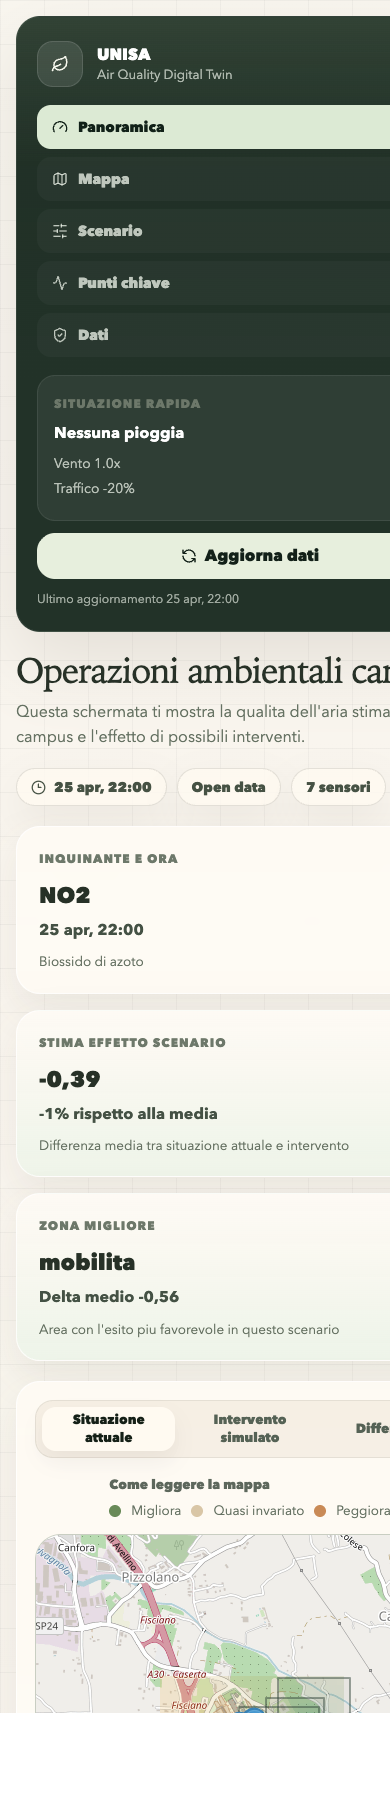
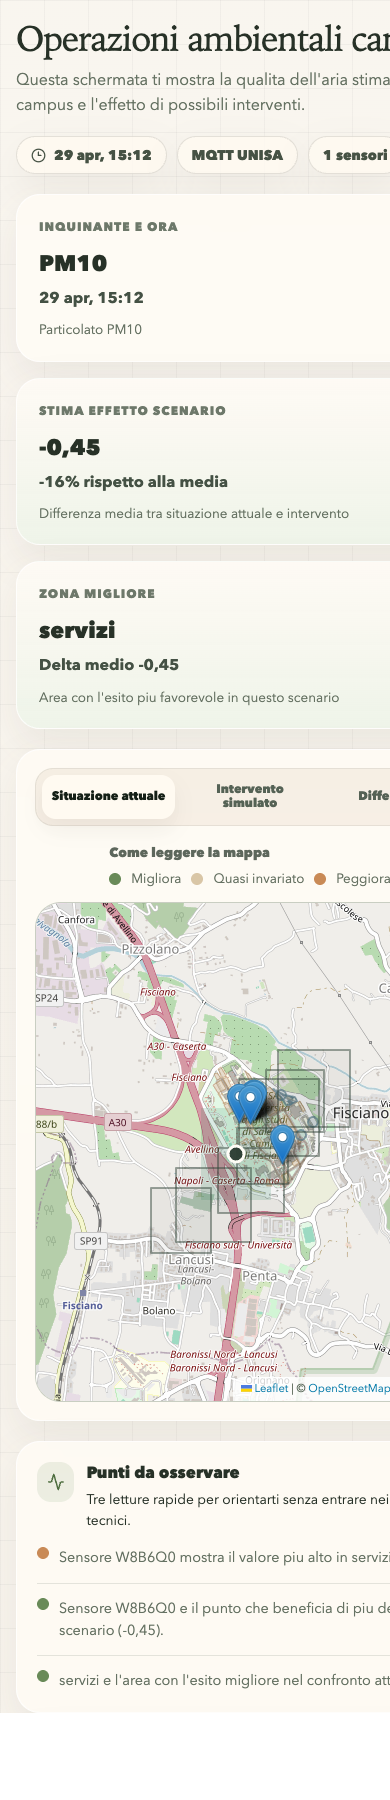
Aggregate real sensor MQTT data into operational snapshots

diff --git a/web/src/App.tsx b/web/src/App.tsx
@@ -64,11 +64,24 @@ type Summary = {
   latest_timestamp: string | null;
   latest_received_at?: string | null;
   rows: number;
+  raw_rows?: number;
+  snapshot_rows?: number;
   sensors: number;
+  active_sensors?: number;
+  capable_sensors?: number;
+  coverage_ratio?: number;
   stations: number;
   zones: { id: string; label: string }[];
   presets: Preset[];
-  ingestion?: { rows?: number; sensors?: number; source?: string; generated_at?: string };
+  ingestion?: {
+    raw_rows?: number;
+    snapshot_rows?: number;
+    sensors?: number;
+    source?: string;
+    generated_at?: string;
+    snapshot_bucket_minutes?: number;
+    snapshot_freshness_minutes?: number;
+  };
   warnings: unknown[];
 };
 type MapPayload = {
@@ -146,6 +159,17 @@ function formatTime(value: string | null) {
     month: "short",
     hour: "2-digit",
     minute: "2-digit",
+  }).format(new Date(value));
+}
+
+function formatTimeWithSeconds(value: string | null) {
+  if (!value) return "n/d";
+  return new Intl.DateTimeFormat("it-IT", {
+    day: "2-digit",
+    month: "short",
+    hour: "2-digit",
+    minute: "2-digit",
+    second: "2-digit",
   }).format(new Date(value));
 }
 
@@ -482,6 +506,22 @@ function App() {
     return mapData?.snapshot ?? [];
   }, [mapData, mode, scenario]);
 
+  const sensorCoverageText = useMemo(() => {
+    const active = activeSnapshot.length || summary?.active_sensors || 0;
+    const capable = summary?.capable_sensors || summary?.sensors || 0;
+    if (!capable) return `${active} sensori`;
+    return `${active}/${capable} sensori`;
+  }, [activeSnapshot.length, summary?.active_sensors, summary?.capable_sensors, summary?.sensors]);
+
+  const coveragePercent = useMemo(() => {
+    if (summary?.coverage_ratio !== undefined) {
+      return Math.round(summary.coverage_ratio * 100);
+    }
+    const capable = summary?.capable_sensors || summary?.sensors || 0;
+    if (!capable) return undefined;
+    return Math.round(((activeSnapshot.length || 0) / capable) * 100);
+  }, [activeSnapshot.length, summary?.capable_sensors, summary?.coverage_ratio, summary?.sensors]);
+
   const impactPercent = useMemo(() => {
     if (!scenario?.timeline.length) return undefined;
     const baselineAverage = mean(scenario.timeline.map((point) => point.baseline));
@@ -656,8 +696,8 @@ function App() {
               <Clock3 size={15} />
               {formatTime(timestamp)}
             </span>
-            <span className="meta-chip">MQTT UNISA</span>
-            <span className="meta-chip">{mapData?.snapshot.length ?? 0} sensori</span>
+            <span className="meta-chip">Snapshot operativo</span>
+            <span className="meta-chip">{sensorCoverageText}</span>
             {isPending ? <span className="meta-chip loading">Aggiornamento</span> : null}
           </div>
         </header>
@@ -809,11 +849,12 @@ function App() {
               <div className="reliability-copy">
                 <p>
                   Confidenza media {topSensors[0]?.confidence_label ? humanizeConfidence(topSensors[0].confidence_label) : "stabile"} con{" "}
-                  {mapData?.snapshot.length ?? 0} sensori disponibili.
+                  {sensorCoverageText} disponibili{coveragePercent !== undefined ? ` (${coveragePercent}% copertura)` : ""}.
                 </p>
                 <ul>
                   <li>Sensori fisici registrati: {summary?.sensors ?? "n/d"}</li>
-                  <li>Misure reali disponibili: {summary?.rows.toLocaleString("it-IT") ?? "n/d"}</li>
+                  <li>Snapshot operativi disponibili: {summary?.snapshot_rows?.toLocaleString("it-IT") ?? summary?.rows.toLocaleString("it-IT") ?? "n/d"}</li>
+                  <li>Misure grezze reali archiviate: {summary?.raw_rows?.toLocaleString("it-IT") ?? "n/d"}</li>
                   <li>Ultima ricezione MQTT: {formatTime(summary?.latest_received_at ?? null)}</li>
                 </ul>
               </div>
@@ -848,7 +889,7 @@ function App() {
             <select value={timestamp ?? ""} onChange={(event) => setTimestamp(event.target.value)}>
               {timestamps.map((item) => (
                 <option key={item} value={item}>
-                  {formatTime(item)}
+                  {formatTimeWithSeconds(item)}
                 </option>
               ))}
             </select>

diff --git a/web/src/styles.css b/web/src/styles.css
@@ -1099,6 +1099,16 @@ input[type="range"] {
     gap: 16px;
   }
 
+  .hero-header h1 {
+    max-width: 8ch;
+    font-size: clamp(1.9rem, 9vw, 2.5rem);
+  }
+
+  .hero-header p {
+    max-width: none;
+    font-size: 0.96rem;
+  }
+
   .main-panel {
     order: 1;
   }
@@ -1148,22 +1158,22 @@ input[type="range"] {
   }
 
   .map-stage {
-    min-height: 500px;
+    min-height: 460px;
   }
 
   .map-caption {
-    right: 14px;
-    left: 14px;
-    bottom: 14px;
+    right: 12px;
+    left: 12px;
+    bottom: 12px;
   }
 
   .map-footnote {
-    left: 14px;
-    top: 14px;
+    left: 12px;
+    top: 12px;
   }
 
   .map-compass {
-    right: 14px;
-    top: 14px;
+    right: 12px;
+    top: 12px;
   }
 }

diff --git a/src/unisa_air_twin/live_sensors.py b/src/unisa_air_twin/live_sensors.py
@@ -28,6 +28,13 @@ POLLUTANT_FIELDS = {
 }
 
 
+def _snapshot_settings(settings: Settings) -> tuple[int, int]:
+    config = settings.live_sensors.get("snapshots", {})
+    bucket_minutes = max(1, int(config.get("bucket_minutes", 1)))
+    freshness_minutes = max(bucket_minutes, int(config.get("freshness_minutes", 5)))
+    return bucket_minutes, freshness_minutes
+
+
 def _configured_path(settings: Settings, key: str) -> Path:
     raw_config = settings.live_sensors.get("raw", {})
     value = raw_config.get(key)
@@ -237,23 +244,94 @@ def normalize_mqtt_observations(settings: Settings) -> pd.DataFrame:
     return observations
 
 
+def _confidence_from_age_seconds(age_seconds: float, freshness_seconds: float) -> str:
+    if age_seconds <= max(60.0, freshness_seconds / 3):
+        return "alta"
+    if age_seconds <= max(180.0, freshness_seconds * 0.7):
+        return "media"
+    return "bassa"
+
+
+def build_operational_snapshots(settings: Settings, observations: pd.DataFrame) -> pd.DataFrame:
+    if observations.empty:
+        return observations.copy()
+
+    bucket_minutes, freshness_minutes = _snapshot_settings(settings)
+    bucket = pd.Timedelta(minutes=bucket_minutes)
+    freshness = pd.Timedelta(minutes=freshness_minutes)
+
+    frame = observations.copy()
+    frame["timestamp"] = pd.to_datetime(frame["timestamp"], errors="coerce")
+    frame["received_at"] = pd.to_datetime(frame["received_at"], errors="coerce")
+    frame = frame.dropna(subset=["timestamp"]).sort_values(["pollutant", "timestamp", "received_at", "sensor_id"])
+    if frame.empty:
+        return frame
+
+    rows: list[pd.DataFrame] = []
+    freshness_seconds = freshness.total_seconds()
+
+    for pollutant, pollutant_frame in frame.groupby("pollutant", sort=True):
+        pollutant_frame = pollutant_frame.copy()
+        capable_sensors = max(1, int(pollutant_frame["sensor_id"].nunique()))
+        first_bucket = pollutant_frame["timestamp"].min().floor(f"{bucket_minutes}min")
+        last_bucket = pollutant_frame["timestamp"].max().floor(f"{bucket_minutes}min")
+        snapshot_starts = pd.date_range(start=first_bucket, end=last_bucket, freq=f"{bucket_minutes}min")
+
+        for snapshot_start in snapshot_starts:
+            snapshot_end = snapshot_start + bucket
+            window = pollutant_frame[
+                (pollutant_frame["timestamp"] < snapshot_end) & (pollutant_frame["timestamp"] >= snapshot_end - freshness)
+            ]
+            if window.empty:
+                continue
+
+            latest_per_sensor = window.drop_duplicates(subset=["sensor_id"], keep="last").copy()
+            latest_per_sensor["measured_at"] = latest_per_sensor["timestamp"]
+            latest_per_sensor["timestamp"] = snapshot_start
+            latest_per_sensor["snapshot_bucket_minutes"] = bucket_minutes
+            latest_per_sensor["snapshot_freshness_minutes"] = freshness_minutes
+            latest_per_sensor["reading_age_seconds"] = (
+                (snapshot_end - latest_per_sensor["measured_at"]).dt.total_seconds().clip(lower=0).round().astype(int)
+            )
+            latest_per_sensor["confidence_label"] = latest_per_sensor["reading_age_seconds"].map(
+                lambda value: _confidence_from_age_seconds(float(value), freshness_seconds)
+            )
+            latest_per_sensor["station_count"] = int(len(latest_per_sensor))
+            latest_per_sensor["capable_sensor_count"] = capable_sensors
+            latest_per_sensor["coverage_ratio"] = round(float(len(latest_per_sensor)) / capable_sensors, 3)
+            rows.append(latest_per_sensor)
+
+    if not rows:
+        return pd.DataFrame(columns=[*observations.columns, "measured_at", "reading_age_seconds"])
+
+    snapshots = pd.concat(rows, ignore_index=True)
+    snapshots = snapshots.sort_values(["timestamp", "pollutant", "sensor_id"]).reset_index(drop=True)
+    return snapshots
+
+
 def build_realtime_dataset(settings: Settings) -> pd.DataFrame:
     sensors = write_real_sensor_geojson(settings)
     observations = normalize_mqtt_observations(settings)
+    snapshot_estimates = build_operational_snapshots(settings, observations)
     write_table(observations, settings.processed_dir / "real_sensor_observations.parquet")
-    write_table(observations, settings.processed_dir / "campus_air_quality_estimates.parquet")
+    write_table(snapshot_estimates, settings.processed_dir / "campus_air_quality_estimates.parquet")
+    bucket_minutes, freshness_minutes = _snapshot_settings(settings)
     metadata = {
-        "rows": int(len(observations)),
+        "raw_rows": int(len(observations)),
+        "snapshot_rows": int(len(snapshot_estimates)),
         "sensors": int(len(sensors)),
         "source": SOURCE_NAME,
         "source_url": SOURCE_URL,
         "generated_at": utc_now_iso(),
         "pollutants": sorted(observations["pollutant"].dropna().unique()) if not observations.empty else [],
+        "snapshot_bucket_minutes": bucket_minutes,
+        "snapshot_freshness_minutes": freshness_minutes,
+        "snapshot_timestamps": int(snapshot_estimates["timestamp"].nunique()) if not snapshot_estimates.empty else 0,
     }
     output = settings.processed_dir / "realtime_ingestion_summary.json"
     ensure_dir(output.parent)
     output.write_text(json.dumps(metadata, indent=2, ensure_ascii=False), encoding="utf-8")
-    return observations
+    return snapshot_estimates
 
 
 def collect_mqtt_messages(settings: Settings, duration_seconds: int = 60, max_messages: int | None = None) -> int:

diff --git a/tests/test_live_sensors.py b/tests/test_live_sensors.py
@@ -2,8 +2,10 @@ from __future__ import annotations
 
 import json
 
+import pandas as pd
+
 from unisa_air_twin.config import load_settings
-from unisa_air_twin.live_sensors import build_realtime_dataset, load_sensor_catalog
+from unisa_air_twin.live_sensors import build_operational_snapshots, build_realtime_dataset, load_sensor_catalog
 
 
 def test_live_sensors_builds_real_sensor_rows(tmp_path) -> None:
@@ -42,3 +44,62 @@ def test_live_sensors_builds_real_sensor_rows(tmp_path) -> None:
     assert set(observations["pollutant"]) == {"pm1", "pm25", "pm10", "voc_index"}
     assert observations["is_real"].eq(True).all()
     assert (processed_dir / "campus_real_sensors.geojson").exists()
+
+
+def test_operational_snapshots_merge_staggered_sensor_messages() -> None:
+    settings = load_settings()
+    observations = pd.DataFrame(
+        [
+            {
+                "timestamp": pd.Timestamp("2026-04-29 15:12:53"),
+                "received_at": pd.Timestamp("2026-04-29 15:12:53"),
+                "sensor_id": "A",
+                "sensor_name": "Sensore A",
+                "lat": 40.771,
+                "lon": 14.790,
+                "zone": "campus",
+                "pollutant": "pm10",
+                "base_value": 10.0,
+                "estimated_value": 10.0,
+                "station_count": 1,
+                "confidence_label": "alta",
+            },
+            {
+                "timestamp": pd.Timestamp("2026-04-29 15:12:58"),
+                "received_at": pd.Timestamp("2026-04-29 15:12:58"),
+                "sensor_id": "B",
+                "sensor_name": "Sensore B",
+                "lat": 40.772,
+                "lon": 14.791,
+                "zone": "campus",
+                "pollutant": "pm10",
+                "base_value": 20.0,
+                "estimated_value": 20.0,
+                "station_count": 1,
+                "confidence_label": "alta",
+            },
+            {
+                "timestamp": pd.Timestamp("2026-04-29 15:13:02"),
+                "received_at": pd.Timestamp("2026-04-29 15:13:02"),
+                "sensor_id": "A",
+                "sensor_name": "Sensore A",
+                "lat": 40.771,
+                "lon": 14.790,
+                "zone": "campus",
+                "pollutant": "pm10",
+                "base_value": 11.0,
+                "estimated_value": 11.0,
+                "station_count": 1,
+                "confidence_label": "alta",
+            },
+        ]
+    )
+
+    snapshots = build_operational_snapshots(settings, observations)
+
+    latest_snapshot = snapshots[snapshots["timestamp"] == pd.Timestamp("2026-04-29 15:13:00")]
+    assert latest_snapshot["sensor_id"].nunique() == 2
+    assert latest_snapshot["station_count"].eq(2).all()
+    assert latest_snapshot["capable_sensor_count"].eq(2).all()
+    assert latest_snapshot["coverage_ratio"].eq(1.0).all()
+    assert latest_snapshot.loc[latest_snapshot["sensor_id"] == "B", "reading_age_seconds"].iloc[0] > 60

diff --git a/src/unisa_air_twin/ui_data.py b/src/unisa_air_twin/ui_data.py
@@ -169,9 +169,12 @@ class TwinDataService:
         estimates = data["estimates"]
         stations = data["stations"]
         pollutants = sorted(estimates["pollutant"].dropna().unique()) if not estimates.empty else []
-        default_pollutant = pollutants[0] if pollutants else "pm10"
+        configured_order = self.settings.model.get("pollutants", [])
+        preferred_order = ["pm10", "pm25", "pm1", *configured_order]
+        default_pollutant = next((item for item in preferred_order if item in pollutants), pollutants[0] if pollutants else "pm10")
         timestamps = self.timestamps(default_pollutant)
         latest_timestamp = timestamps[-1] if timestamps else None
+        latest_snapshot = self.snapshot(default_pollutant, latest_timestamp) if latest_timestamp else pd.DataFrame()
         zones = sorted(estimates["zone"].dropna().unique()) if "zone" in estimates.columns and not estimates.empty else []
         sensors = data["sensors"]
         latest_received = (
@@ -179,9 +182,17 @@ class TwinDataService:
             if "received_at" in estimates.columns and not estimates.empty
             else latest_timestamp
         )
+        active_sensors = int(latest_snapshot["sensor_id"].nunique()) if "sensor_id" in latest_snapshot.columns else 0
+        capable_sensors = (
+            int(pd.to_numeric(latest_snapshot["capable_sensor_count"], errors="coerce").max())
+            if "capable_sensor_count" in latest_snapshot.columns and not latest_snapshot.empty
+            else active_sensors
+        )
+        coverage_ratio = round(float(active_sensors) / capable_sensors, 3) if capable_sensors else 0.0
+        ingestion = data["ingestion_summary"]
         return {
             "project": "UNISA Air Quality Digital Twin",
-            "source": "UNISA Live MQTT",
+            "source": "Sensori reali UNISA",
             "campus": {
                 "name": self.settings.campus.get("name", "Campus di Fisciano"),
                 "latitude": self.settings.campus.get("fallback_latitude"),
@@ -192,11 +203,16 @@ class TwinDataService:
             "latest_timestamp": latest_timestamp,
             "latest_received_at": latest_received,
             "rows": int(len(estimates)),
+            "raw_rows": int(ingestion.get("raw_rows", 0)),
+            "snapshot_rows": int(ingestion.get("snapshot_rows", len(estimates))),
             "sensors": int(len(sensors)),
+            "active_sensors": active_sensors,
+            "capable_sensors": capable_sensors,
+            "coverage_ratio": coverage_ratio,
             "stations": int(len(stations)),
             "zones": [{"id": "all", "label": format_zone("all")}, *[{"id": zone, "label": format_zone(zone)} for zone in zones]],
             "presets": [{"name": name, **values} for name, values in SCENARIO_PRESETS.items()],
-            "ingestion": data["ingestion_summary"],
+            "ingestion": ingestion,
             "warnings": data["schema_report"].get("warnings", []),
         }
 

diff --git a/scripts/build_datasets.py b/scripts/build_datasets.py
@@ -11,8 +11,8 @@ from unisa_air_twin.live_sensors import build_realtime_dataset
 
 def main() -> None:
     settings = load_settings()
-    observations = build_realtime_dataset(settings)
-    print(f"Created {len(observations):,} real UNISA sensor observation rows.")
+    snapshots = build_realtime_dataset(settings)
+    print(f"Created {len(snapshots):,} operational snapshot rows from real UNISA sensors.")
 
 
 if __name__ == "__main__":
